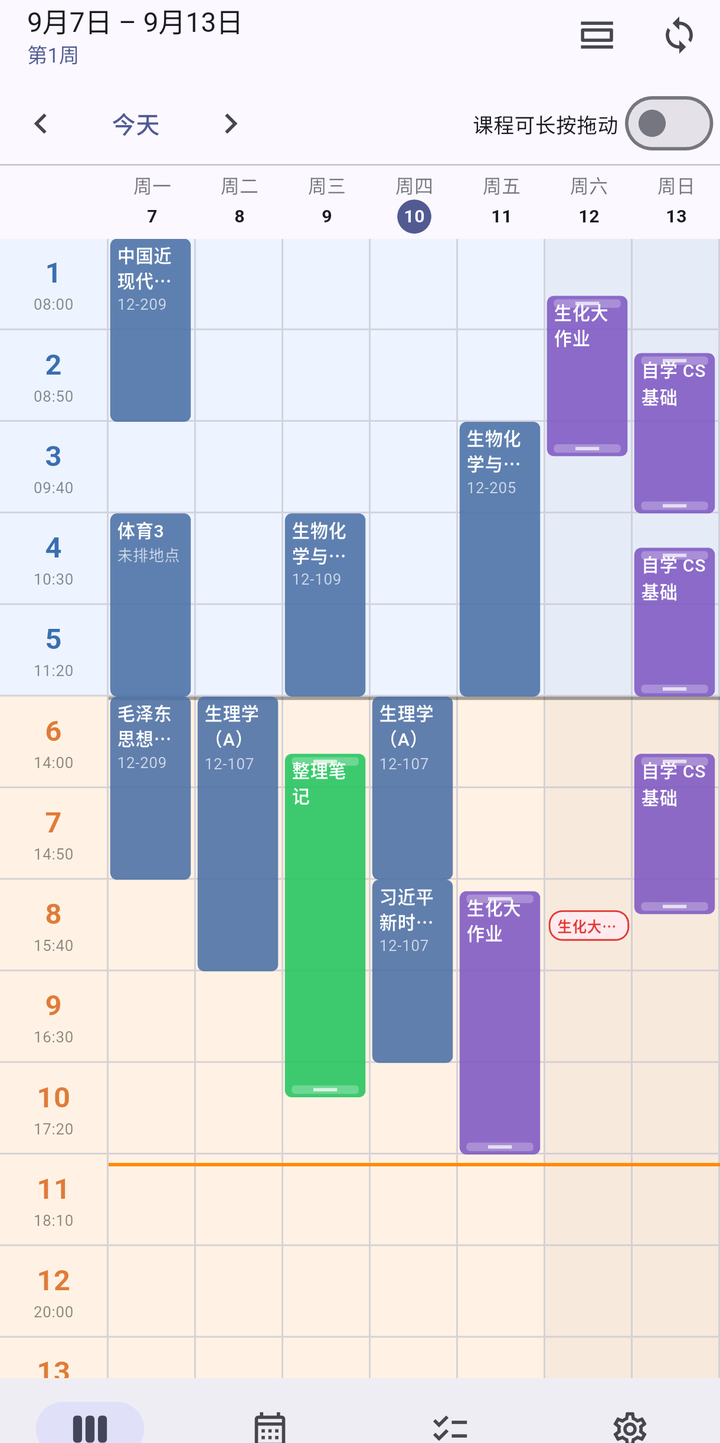
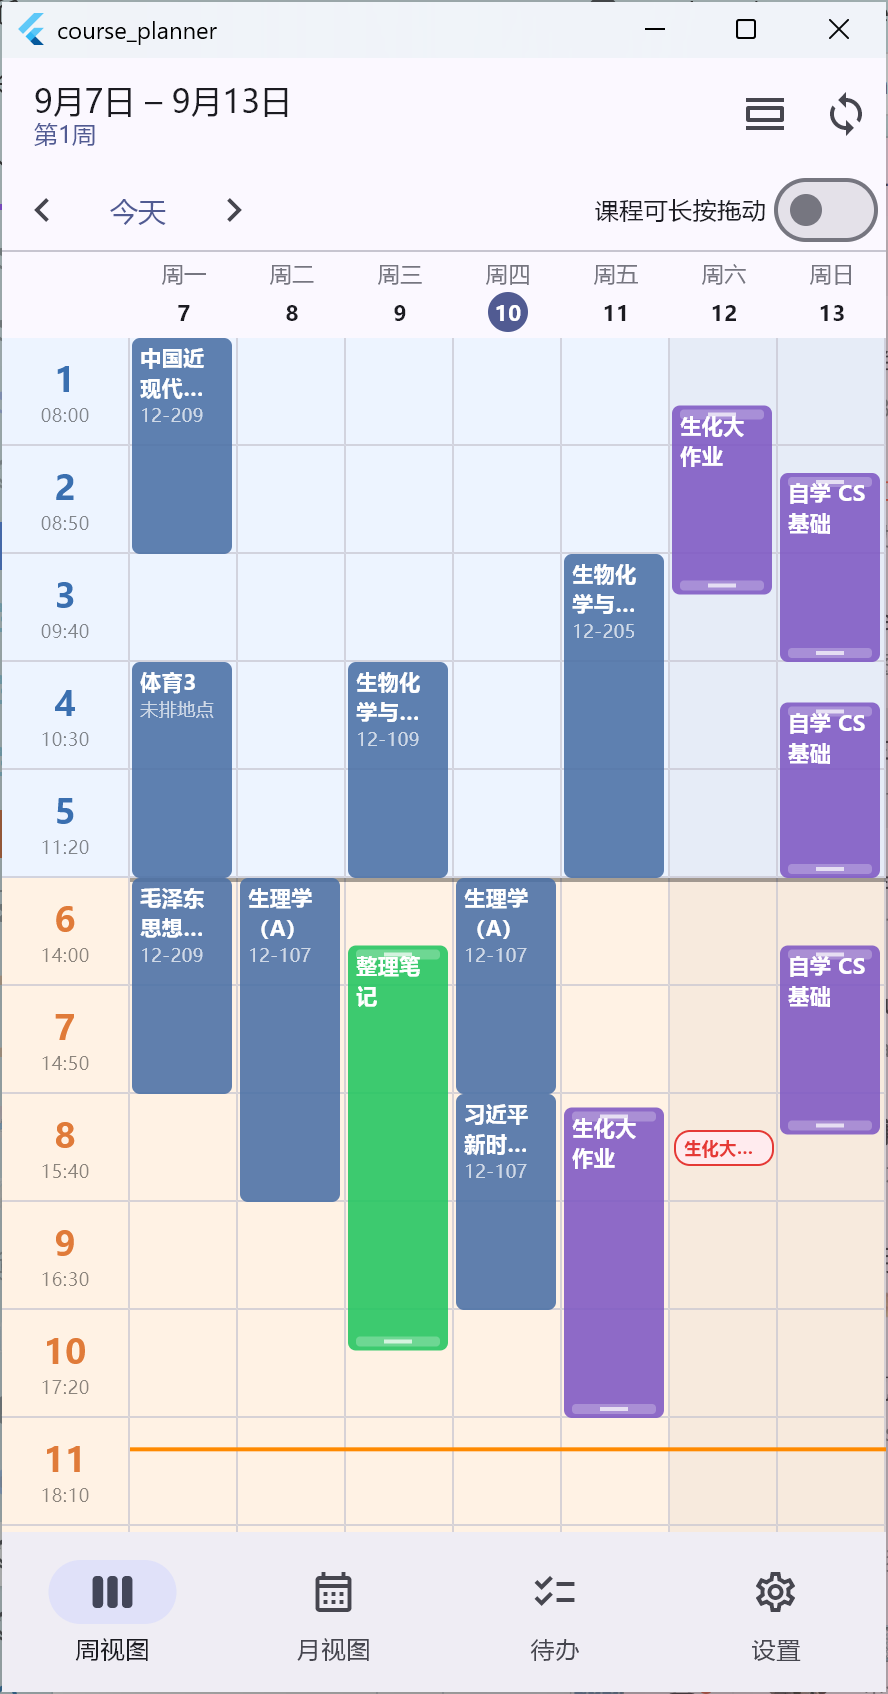
docs: 截图换成待办页，并更新周视图/课表/月视图截图
README 第二组截图由「月视图 + 登录」改为「月视图 + 待办」，其余三张换成新截的图。

diff --git a/README.md b/README.md
@@ -17,9 +17,9 @@ Android 装 Releases 里的 APK，登录页服务器地址填 `https://course.le
 | --- | --- |
 | ![时间轴](docs/screenshots/week-timeline.png) | ![课表](docs/screenshots/week-grid.png) |
 
-| 月视图 | 登录 |
+| 月视图 | 待办 |
 | --- | --- |
-| ![月视图](docs/screenshots/month.png) | ![登录](docs/screenshots/login.png) |
+| ![月视图](docs/screenshots/month.png) | ![待办](docs/screenshots/todo.png) |
 
 ## 功能
 
